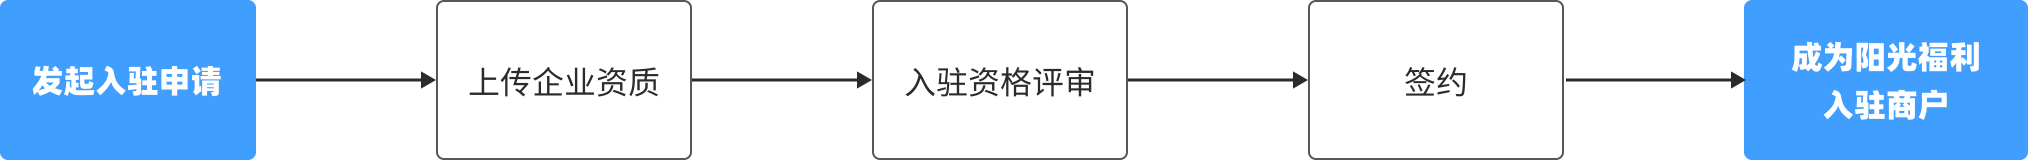
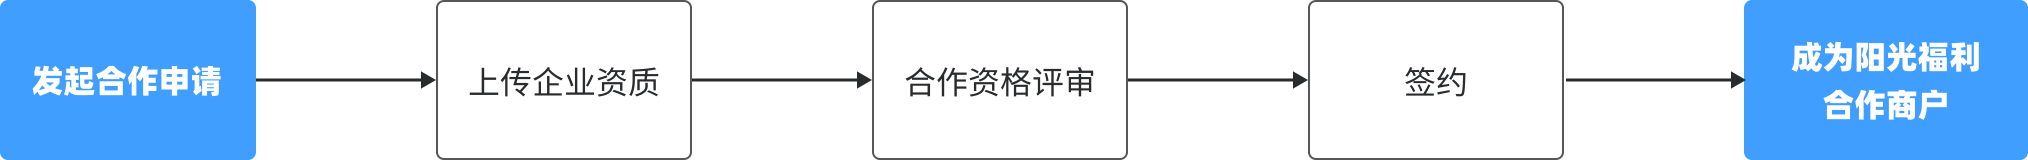
fix 平台规则文案更改

Changed region(s): [[0.0311, 0.4062, 0.0932, 0.5938], [0.4349, 0.4375, 0.497, 0.5938], [0.9009, 0.5625, 0.932, 0.75]]

diff --git a/src/components/comm-agreement.vue b/src/components/comm-agreement.vue
@@ -1,7 +1,7 @@
 <template>
   <div text-lg leading-7>欢迎使用阿拉教师码合作平台！</div>
   <div text-base leading-7 mt-2>
-    申请 “阳光福利” 商户入驻前，请仔细阅读并同意以下内容及<span
+    申请 “阳光福利” 商户合作前，请仔细阅读并同意以下内容及<span
       class="text-[#409EFF] cursor-pointer"
       @click="
         downloadFile(
@@ -27,20 +27,19 @@
   </div>
   <div text-base leading-7>
     2.
-    拟入驻主体提交给阿拉教师码平台的核验资料真实⽆误，并不可撤销地授权阿拉教师码及其委托的任何第三⽅审核机构对提交的资料进⾏甄别核实。
+    拟合作主体提交给阿拉教师码平台的核验资料真实⽆误，并不可撤销地授权阿拉教师码及其委托的任何第三⽅审核机构对提交的资料进⾏甄别核实。
   </div>
   <div text-base leading-7>
     3.
-    拟入驻主体在申请商户入驻过程中填写并向阿拉教师码提交的申请人（包括后续不时变更的⼈员）为拟入驻主体指定的负责人，并特此授权由该指定⼈员以拟入驻主体的名义负责该主体商户账号的运营管理，同一申请人仅可认证一个主体账号。申请人的所有操作行为，均代表拟入驻主体，拟入驻主体均需承担一切责任。
+    拟合作主体在申请商户合作过程中填写并向阿拉教师码提交的申请人（包括后续不时变更的⼈员）为拟合作主体指定的负责人，并特此授权由该指定⼈员以拟合作主体的名义负责该主体商户账号的运营管理，同一申请人仅可认证一个主体账号。申请人的所有操作行为，均代表拟合作主体，拟合作主体均需承担一切责任。
   </div>
   <div text-base leading-7>
     4.
-    认证资料审查通过后，平台将组织线下评审会（召开时间以短信形式发送至负责人），商户代表需出席会议并向到场专家宣讲企业背景和产品介绍，由评审委员会投票决定商户能否入围阿拉教师码阳光福利采购商户名单。评审未通过的商户可以重新发起入驻申请，评审通过的商户需在
-    10 个工作日内完成平台签约，已签约的商户正式入驻阿拉教师码阳光福利商户。
+    合作商户要求：非外资完全控股企业，经营年限满五年及以上，具备独立法人资格和市场经营需要的资质，有符合国家卫生及食品标准的经营场所，宁波大市范围内有三家及以上的线下门店，支持供应链配送和物流系统。
   </div>
   <div text-base leading-7>
     5.
-    拟入驻主体如违反上述承诺，均需承担一切责任，对阿拉教师码平台或第三方造成损失的，须赔偿损失。
+    拟合作主体如违反上述承诺，均需承担一切责任，对阿拉教师码平台或第三方造成损失的，须赔偿损失。
   </div>
   <div class="text-lg leading-7 mt-2">申报流程如下所示：</div>
   <img

diff --git a/src/layout/components/layout-aside.vue b/src/layout/components/layout-aside.vue
@@ -42,7 +42,7 @@ const menuArr = computed<MenuItem[]>(() => {
     return [
       {
         id: 1,
-        label: "商户入驻",
+        label: "商户合作",
         router: "/entry-process",
         icon: House,
       },
